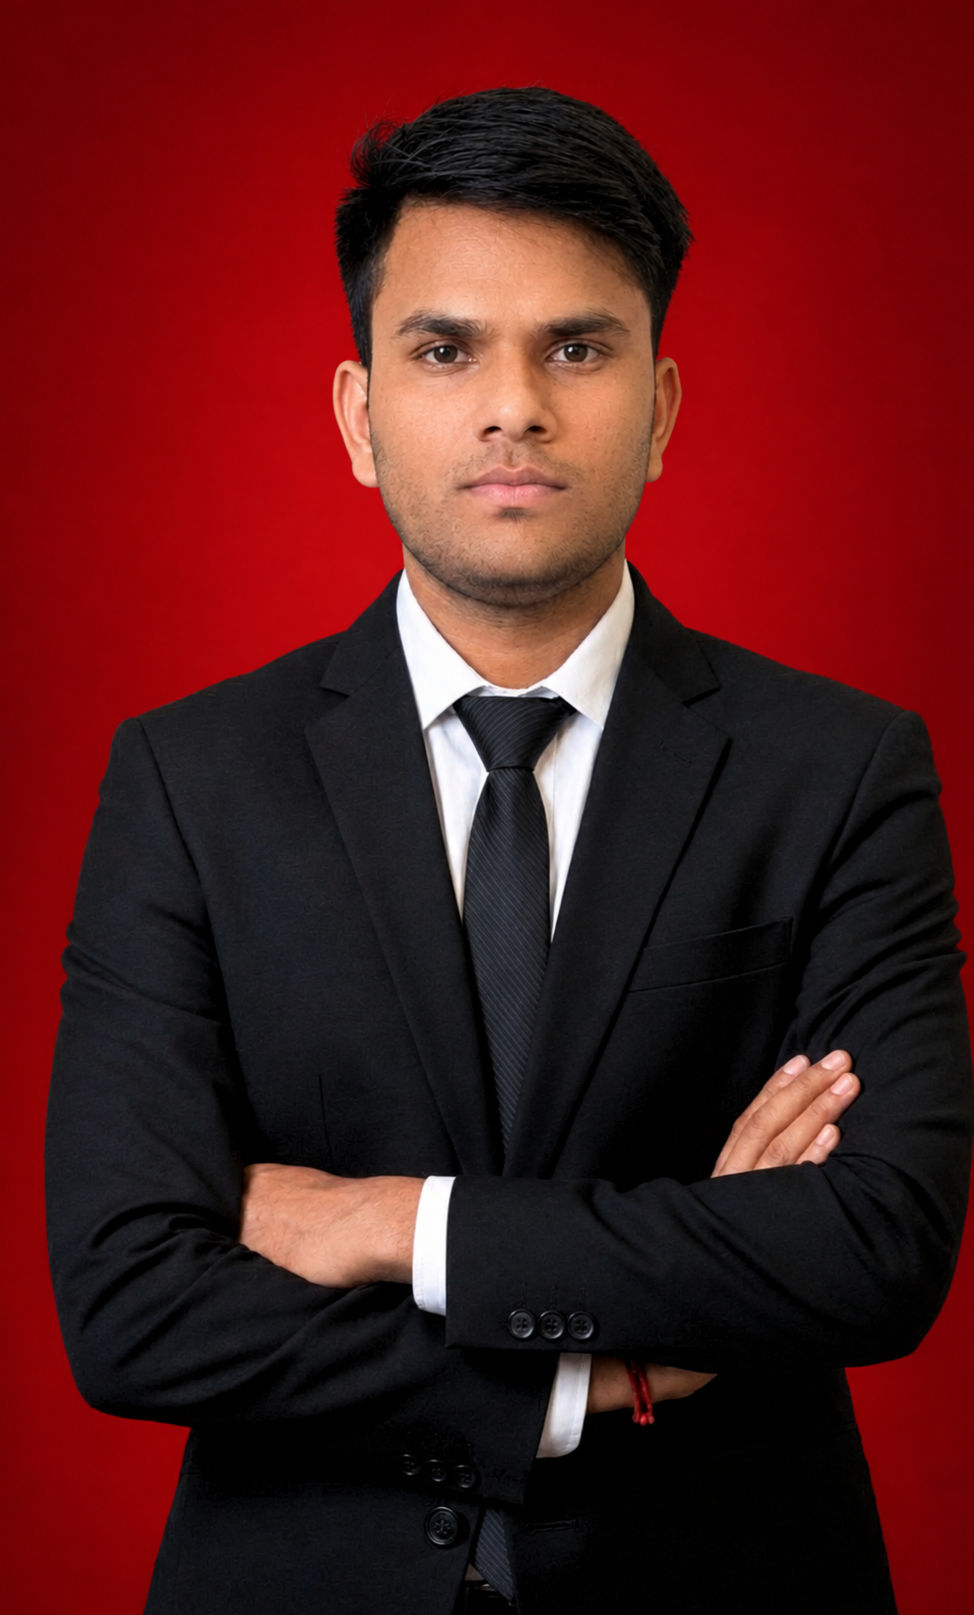
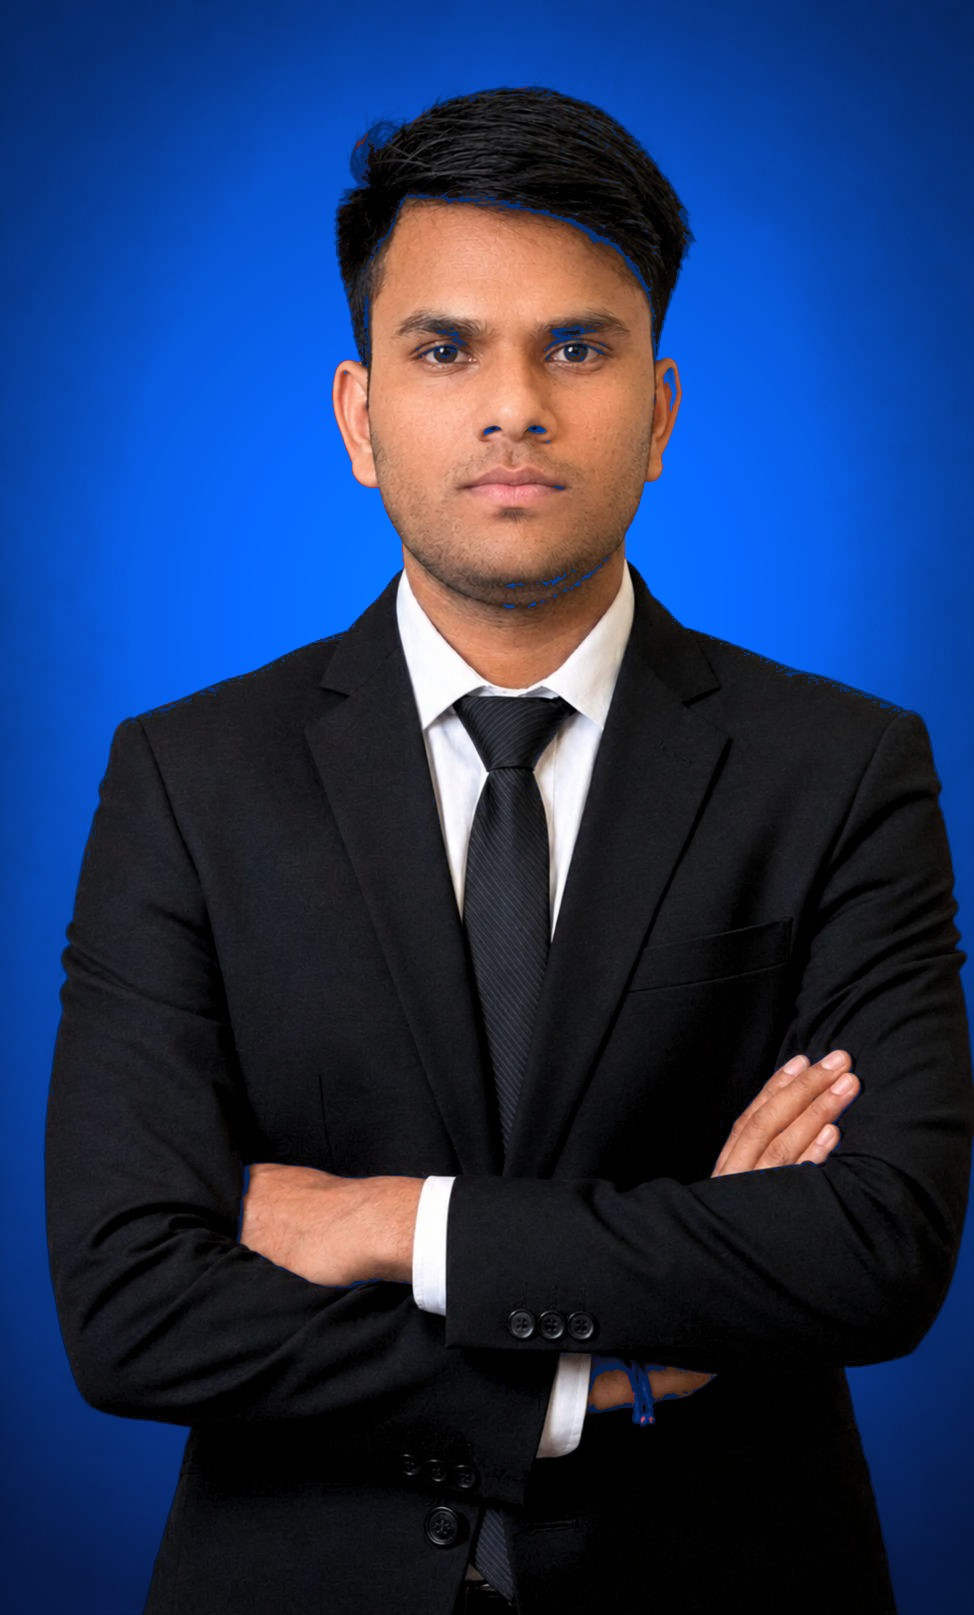
refactor: update hero portrait and social cards to match royal blue theme

diff --git a/src/data.ts b/src/data.ts
@@ -363,13 +363,13 @@ Motion is no longer a luxury decoration—it is an essential storytelling asset.
  * Confirmed official portrait/profile photograph of Rohit Verma.
  * Hosted on ImageKit CDN with high availability and optimized delivery.
  */
-export const ROHIT_PROFILE_IMAGE_URL = "https://ik.imagekit.io/auhuory9w/website%20work/Hero%20section%20Photo/Image/ChatGPT%20Image%20Sep%2010,%202026,%2011_18_40%20PM.png";
+export const ROHIT_PROFILE_IMAGE_URL = "/images/rohit-verma-portrait.png";
 export const ROHIT_PORTRAIT_IMAGE_URL = ROHIT_PROFILE_IMAGE_URL;
 
 /**
  * Resolves the authoritative portrait/profile photograph of Rohit Verma across the platform.
- * 1. Uses the valid CMS profile image when configured (and not an obsolete local path).
- * 2. Otherwise uses the confirmed ImageKit URL as the default fallback.
+ * 1. Uses the valid CMS profile image when configured (and not an obsolete red/legacy image).
+ * 2. Otherwise uses the theme-matched portrait as the authoritative default.
  */
 export function getAuthoritativeProfileImage(configuredImage?: string | null): string {
   if (!configuredImage || typeof configuredImage !== 'string') {
@@ -378,14 +378,12 @@ export function getAuthoritativeProfileImage(configuredImage?: string | null): s
   const trimmed = configuredImage.trim();
   if (
     !trimmed ||
-    trimmed === '/images/rohit-verma-portrait.jpg' ||
+    trimmed.includes('ChatGPT%20Image') ||
+    trimmed.includes('rohit-avatar.jpg') ||
     trimmed === '/images/rohit-avatar.jpg' ||
     trimmed === '/images/rohit-avatar.webp' ||
     trimmed === '/images/rohit-hero.webp' ||
-    trimmed === '/images/rohit-verma-portrait.png' ||
-    trimmed === '/images/rohit-verma-portrait.webp' ||
-    trimmed.includes('rohit-verma-portrait.jpg') ||
-    trimmed.includes('rohit-avatar.jpg')
+    trimmed === '/images/rohit-verma-portrait.webp'
   ) {
     return ROHIT_PROFILE_IMAGE_URL;
   }

diff --git a/index.html b/index.html
@@ -76,7 +76,7 @@
             "jobTitle": "Graphic Designer & Video Editor",
             "description": "Graphic designer and video editor in Jaipur specializing in branding, social media creatives, motion graphics and visual design with 3+ years of professional creative experience.",
             "url": "https://www.rohitwork.in/",
-            "image": "https://ik.imagekit.io/auhuory9w/website%20work/Hero%20section%20Photo/Image/ChatGPT%20Image%20Sep%2010,%202026,%2011_18_40%20PM.png",
+            "image": "https://www.rohitwork.in/images/rohit-verma-portrait.png",
             "telephone": "+91 9376569027",
             "email": "workall724038@gmail.com",
             "sameAs": [

diff --git a/server.ts b/server.ts
@@ -537,7 +537,7 @@ let serverMediaItems: MediaItem[] = [
   {
     id: 'med-1',
     name: 'rohit-verma-portrait.png',
-    url: 'https://ik.imagekit.io/auhuory9w/website%20work/Hero%20section%20Photo/Image/ChatGPT%20Image%20Sep%2010,%202026,%2011_18_40%20PM.png',
+    url: '/images/rohit-verma-portrait.png',
     size: '126 KB',
     type: 'image/png',
     category: 'avatars',
